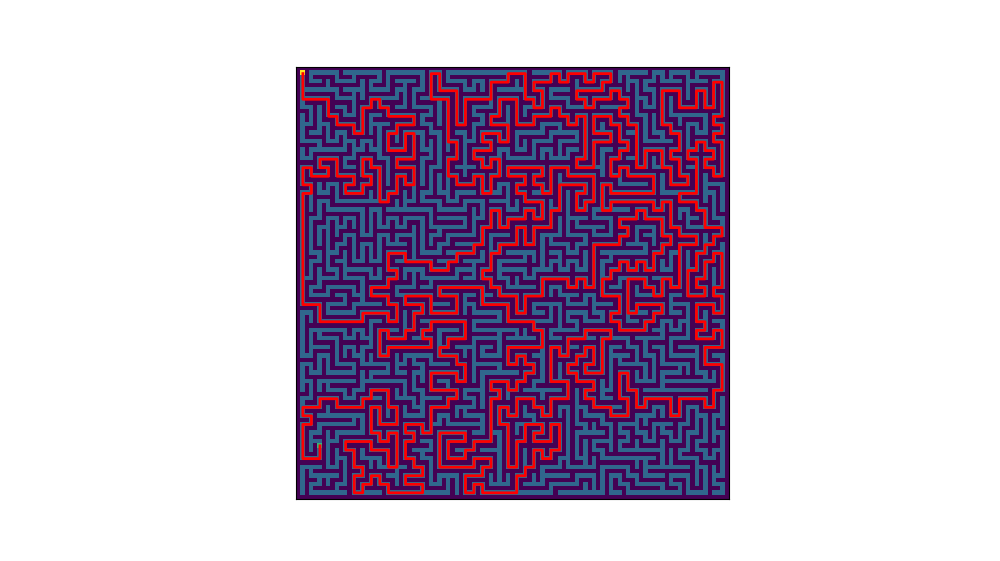
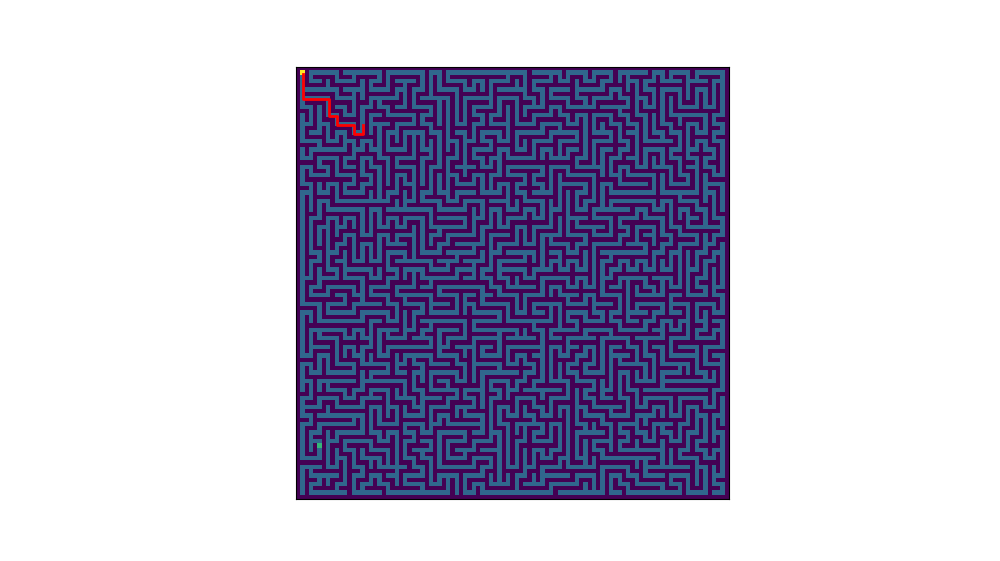
animated as scatter plot

Changed region(s): [[0.279, 0.1212, 0.744, 0.8788]]

diff --git a/maze.py b/maze.py
@@ -60,29 +60,46 @@ def draw_maze(maze, save_dir='', save_filename='', save_animation=False, path=No
     ax.imshow(maze, interpolation='nearest')
     ax.set_xticks([])
     ax.set_yticks([])
+
+    scatter = None 
     
     # Prepare for path animation
     if path is not None:
-        line, = ax.plot([], [], color='red', linewidth=2)
+        # line, = ax.plot([], [], color='red', linewidth=2)
         
+        # def init():
+        #     line.set_data([], [])
+        #     return line,
+        
+        # # update is called for each path point in the maze
+        # def update(frame):
+        #     x, y = path[frame]
+        #     line.set_data(*zip(*[(p[1], p[0]) for p in path[:frame+1]]))  # update the data
+        #     return line,
+        
+        # ani = animation.FuncAnimation(
+        #     fig, update, frames=range(len(path)), init_func=init, 
+        #     blit=True, repeat = False, interval=1
+        # )
+
         def init():
-            line.set_data([], [])
-            return line,
+            nonlocal scatter
+            scatter = ax.scatter([], [], marker='o', color='w', s=2)
+            return scatter,
         
         # update is called for each path point in the maze
         def update(frame):
-            x, y = path[frame]
-            line.set_data(*zip(*[(p[1], p[0]) for p in path[:frame+1]]))  # update the data
-            return line,
-        
+            nonlocal scatter
+            # y, x = path[frame]
+            x = [p[1] for p in path[:frame+1]]
+            y = [p[0] for p in path[:frame+1]]
+            scatter.set_offsets(np.column_stack([x, y]))  # Update scatter plot data
+            return scatter,
+
         ani = animation.FuncAnimation(
-            fig, update, frames=range(len(path)), init_func=init, 
-            blit=True, repeat = False, interval=20
+            fig, update, frames = range(len(path)), init_func = init, 
+            repeat = False, interval=1, cache_frame_data=False, blit=True
         )
-    
-    # # Draw entry and exit arrows
-    # ax.arrow(0, 1, .4, 0, fc='green', ec='green', head_width=0.3, head_length=0.3)
-    # ax.arrow(maze.shape[1]-1, maze.shape[0]-2, 0.4, 0, fc='blue', ec='blue', head_width=0.3, head_length=0.3)
 
     plt.show()
 

diff --git a/dfs.py b/dfs.py
@@ -68,20 +68,20 @@ def handle_result(res, maze_shape):
 
 # Perform Depth First Search (DFS).
 
-# SMALL MAZE
-maze_s, goal_s = load_maze(path='./mazes/s_dim21.json')
-maze = maze_s
-res = dfs(maze, goal_s)
-handle_result(res, maze.shape)
+# # SMALL MAZE
+# maze_s, goal_s = load_maze(path='./mazes/s_dim21.json')
+# maze = maze_s
+# res = dfs(maze, goal_s)
+# handle_result(res, maze.shape)
 
-# MEDIUM MAZE
-maze_m, goal_m = load_maze(path='./mazes/m_dim41.json')
-maze = maze_m
-res = dfs(maze, goal_m)
-handle_result(res, maze.shape)
+# # MEDIUM MAZE
+# maze_m, goal_m = load_maze(path='./mazes/m_dim41.json')
+# maze = maze_m
+# res = dfs(maze, goal_m)
+# handle_result(res, maze.shape)
 
-# LARGE MAZE
-maze_l, goal_l = load_maze(path='./mazes/l_dim101.json')
-maze = maze_l
-res = dfs(maze, goal_l)
-handle_result(res, maze.shape)
+# # LARGE MAZE
+# maze_l, goal_l = load_maze(path='./mazes/l_dim101.json')
+# maze = maze_l
+# res = dfs(maze, goal_l)
+# handle_result(res, maze.shape)

diff --git a/test.py b/test.py
@@ -3,7 +3,8 @@ from dfs import dfs
 
 dim = 20
 m, g = create_maze(dim)
-save_maze(m, g, './mazes', '0')
-m, g = load_maze(f'./mazes/0_dim{dim*2+1}_goalx{g[0]}y{g[1]}.json')
 res = dfs(m, g)
-draw_maze(maze=m, path=res['path'])
+draw_maze(
+    maze=m, path=res['path'], 
+    # save_dir='./solutions', save_filename=f'/maze_{len(m)}', save_animation=True
+)
